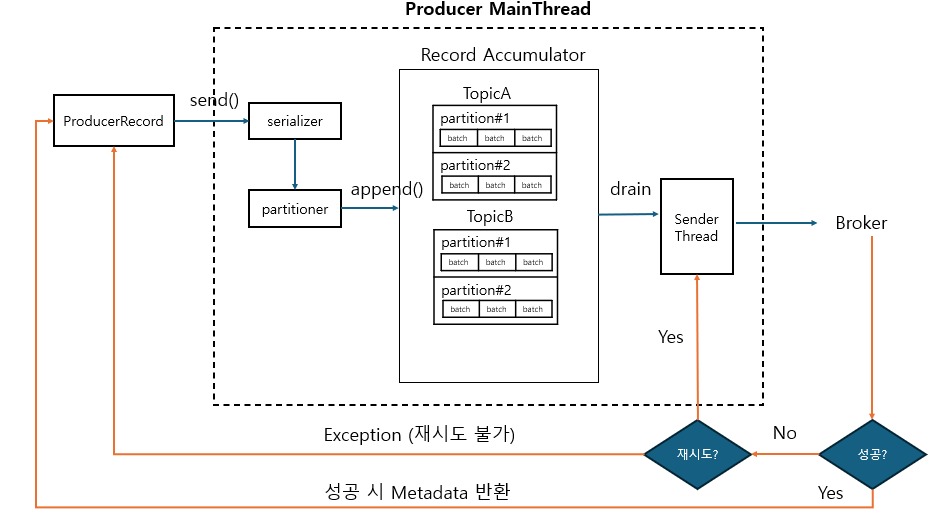
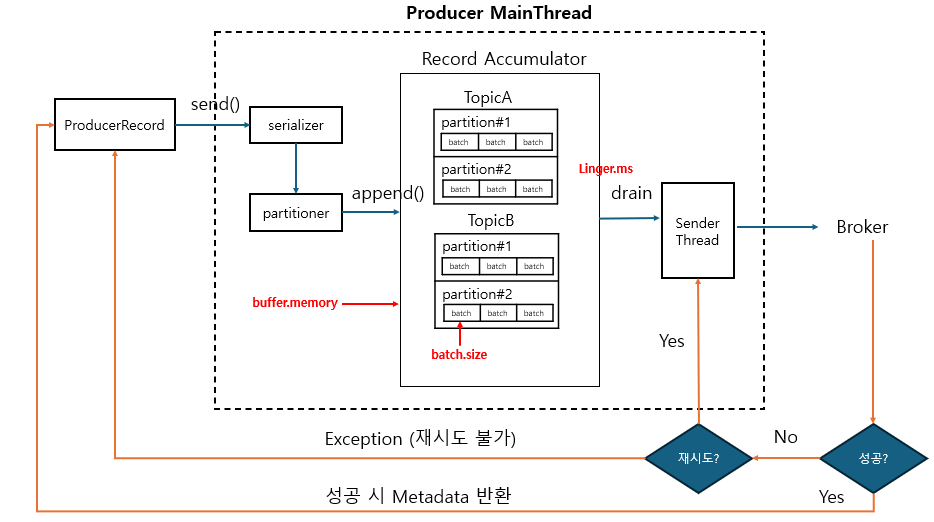
producer

diff --git a/_posts/2024-08-02-kafka-producer.md b/_posts/2024-08-02-kafka-producer.md
@@ -8,15 +8,9 @@ categories: kafka
 tags: producer
 ---
 {% raw %}
-### Producer 프로세스
-![img.png](https://limhyunjune.github.io/assets/images/producer.png)
-
-- Broker 전송 성공 여부에 따른 재전송은 동기식에서만 동작
-- 실패 시 error 반환
-```java
-kafkaProducer.send().get()
-```
-
+### Producer 개요
+- Producer는 Topic에 메시지를 보냄(메시지 write)
+- Producer는 성능/로드밸런싱/가용성/업무 정합성등을 고려하여 어떤 브로커의 파티션으로 메시지를 보내야 할지 전략적으로 결정됨
 
 #### Producer Record
 ![img.png](https://limhyunjune.github.io/assets/images/producerrecord.png)
@@ -38,6 +32,188 @@ kafkaProducer.send(producerRecord);
 kafkaProducer.flush();
 kafkaProducer.close();
 ```
+- kafka에서 제공하는 serializer
+  - StringSerializer
+  - ShortSerializer
+  - IntegerSerializer
+  - DoubleSerializer
+  - LongSerializer
+  - BytesSerializer
+
+<br>
+<hr>
+
+## Producer 메시지 파티셔닝
+
+### key 값을 가지지 않는 메시지 전송
+- 메시지는 producer를 통해 전송 시 partitioner를 통해 어떤 파티셔너로 전송되어야 하는지 미리 결정됨
+- key 값을 가지지 않는 경우 Round Robin, Sticky Partitioning 등의 전략이 선택되어 파티션 별로 메시지가 전송됨
+- Topic이 여러 개의 파티션을 가질 때 `전송 순서가 보장되지 않은 채`로 consumer에서 읽혀질 수 있음
+
+
+#### 라운드 로빈
+- kafka 2.4 이전 default 파티셔닝 전략
+- 최대한 메시지를 파티션에 균등하게 분배하려는 전략으로써 메시지 배치를 순차적으로 다른 파티션으로 전송
+- 메시지가 배치 데이터를 빨리 채우지 못하면서 전송이 늦어지거나 배치를 다 채우지 못하고 전송하면서 성능 이슈
+
+![img.png](https://limhyunjune.github.io/assets/images/roundrobin.png)
+
+#### 스티키 파티셔닝
+- kafka 2.4 이후 default 파티셔닝 전략
+- 라운드 로빈의 성능을 개선하고자 특정 파티션으로 전송되는 하나의 배치에 메시지를 빠르게 먼저 채워서 보내는 방식
+
+![img.png](https://limhyunjune.github.io/assets/images/sticky.png)
+
+
+### key 값을 가지는 메시지 전송
+- 특정 key 값을 가지는 메시지는 `특정 파티션으로 고정 전송됨`
+- 특정 key 값을 가지는 메시지는 단일 파티션 내에서 전송 순서가 보장되어 consumer에서 읽힘
+  - 하나의 파티션에서만 메시지 순서 보장
+
+![img.png](https://limhyunjune.github.io/assets/images/producerkey.png)
+
+#### key 메시지 전송
+- 전송
+```
+kafka-console-producer --bootstrap-server localhost:9092 --topic 토픽명 --property key.separator=: --property parse.key=true
+```
+- 수신
+```
+kafka-console-consumer --bootstrap-server localhost:9092 --topic 토픽명 --property print.key=true --from-beginning
+```
+
+### DefaultPartitioner
+- kafka는 기본적으로 DefaultPartitioner를 통해 partition 지정
+- key를 가지는 메시지의 경우 key 값을 해싱하여 파티션별로 균일하게 전송
+
+```java
+public int partition(String topic, Object key, bytes[] keyBytes, Bytes[] valueBytes, Cluster cluster, int numPartition)
+{
+    if(keyBytes == null){
+        return StickyPartitionCache.partition(topic,cluster);    
+    }
+    return Utils.toPositive(Utils.murmur2(keyBytes)) % numPartition;
+}
+```
+
+### Custom Partitioner 구현
+- Partitioner interface 구현, partition() 메소드 구현 필요
+```java
+public class CustomPartitioner implements Partitioner {
+  public static final Logger logger = LoggerFactory.getLogger(CustomPartitioner.class.getName());
+  private final StickyPartitionCache stickyPartitionCache = new StickyPartitionCache();
+  private String specialKeyName;
+
+  @Override
+  public void configure(Map<String, ?> configs) {
+    specialKeyName = configs.get("custom.specialKey").toString();
+  }
+
+  @Override
+  public int partition(String topic, Object key, byte[] keyBytes, Object value, byte[] valueBytes, Cluster cluster) {
+    List<PartitionInfo> partitionInfoList = cluster.partitionsForTopic(topic);
+    int numPartitions = partitionInfoList.size();
+    int numSpecialPartitions = (int)(numPartitions * 0.5);
+    int partitionIndex = 0;
+
+    if (keyBytes == null) {
+      //return stickyPartitionCache.partition(topic, cluster);
+      throw new InvalidRecordException("key should not be null");
+    }
+
+    if (((String)key).equals(specialKeyName)) {
+      partitionIndex = Utils.toPositive(Utils.murmur2(valueBytes)) % numSpecialPartitions;
+    }
+    else {
+      partitionIndex = Utils.toPositive(Utils.murmur2(keyBytes)) % (numPartitions - numSpecialPartitions) + numSpecialPartitions;
+    }
+    logger.info("key:{} is sent to partition:{}", key.toString(), partitionIndex);
+
+    return partitionIndex;
+  }
+
+  @Override
+  public void close() {
+
+  }
+}
+```
+- `configs.get("custom.specialKey").toString();` 
+  - producer에 등록한 config 값을 가져올 수 있음
+<br>
+<hr>
+
+### send() 메소드 호출 프로세스
+
+![img.png](https://limhyunjune.github.io/assets/images/producer.png)
+- Kafka Producer 전송은 Producer Client의 별도 Thread가 전송을 담당한다는 점에서 기본적으로 Thread간 Async 전송
+- Main Thread가 send( ) 메소드를 호출하여 메시지 전송을 시작하지만 바로 전송되지 않으며 내부 Buffer에서 토픽 파티션에 따라 Record Batch 단위로 묶인 뒤 전송됨
+- producer client의 내부 메모리 (**Record Accumulator**)에 여러 개의 batch들로 buffer.memory 설정 사이즈만큼 보관 가능
+- 복수 개의 batch 한꺼번에 전송 가능
+- ``batch.size``만큼 레코드가 쌓이면 sender thread를 통해 전송
+- ``linger.ms``를 줄이면 batch 사이즈를 다 채우기 전에 전송할 수 있도록 할 수 있음 (20ms 이하 권장)
+
+#### max.inflight.requests.per.connection
+- 한 번에 전송 가능한 메시지 배치 개수 (default=5)
+- 1보다 큰 경우 일부 배치의 전송 실패 시 순서 뒤집힐 수 있음
+
+<br>
+<hr>
+
+### 메시지 동기식/비동기식 전송
+#### Sync 방식
+- Producer는 broker로부터 해당 메시지를 성공적으로 받았다는 Ack 메시지를 받은 후 메시지 전송
+- 동기 처리시 1개씩 전송하며 ack를 받아야 하므로 batch 처리 불가능, 전송은 batch 레벨이지만 메시지는 1개
+
+동기화 코드
+```java
+Future<RecordMetadata> future = producer.send();
+RecordMetadata metadata = future.get();
+
+# inline
+RecordMetadata metadata = producer.send().get();
+```
+
+#### Async 방식
+- Callback을 이용한 비동기 메시지 전송 가능
+  - 비동기적으로 메시지를 보내면서 RecordMetadata를 client가 받을 수 있는 방식 제공
+- Async 전송 시 batch를 통해 전송함
+```java
+producer.send(producerRecord, new Callback() {
+  @Override
+  public void onCompletion( RecordMetadata metadata, Exception exception ) {
+    if (exception == null) {
+      System.out.println("received metadata \n" +
+        "Topic:" + metadata.topic() + "\n" +
+        "Partition:" + metadata.partition() + "\n" +
+        "Offset:" + metadata.offset());
+    } else {
+        exception.printStackTrace();
+    }
+  }
+```
+
+#### Custom Callback 생성
+- Callback 인터페이스 상속
+```java
+public class CustomCallback implements Callback{
+  @Override
+  public void onCompletion( RecordMetadata metadata, Exception exception ) {
+      if (exception == null) {
+          System.out.println("received metadata \n" +
+                  "Topic:" + metadata.topic() + "\n" +
+                  "Partition:" + metadata.partition() + "\n" +
+                  "Offset:" + metadata.offset());
+      } else {
+          exception.printStackTrace();
+      }
+   }
+}
+
+```
+
+<br>
+<hr>
 
 
 {% endraw %}
